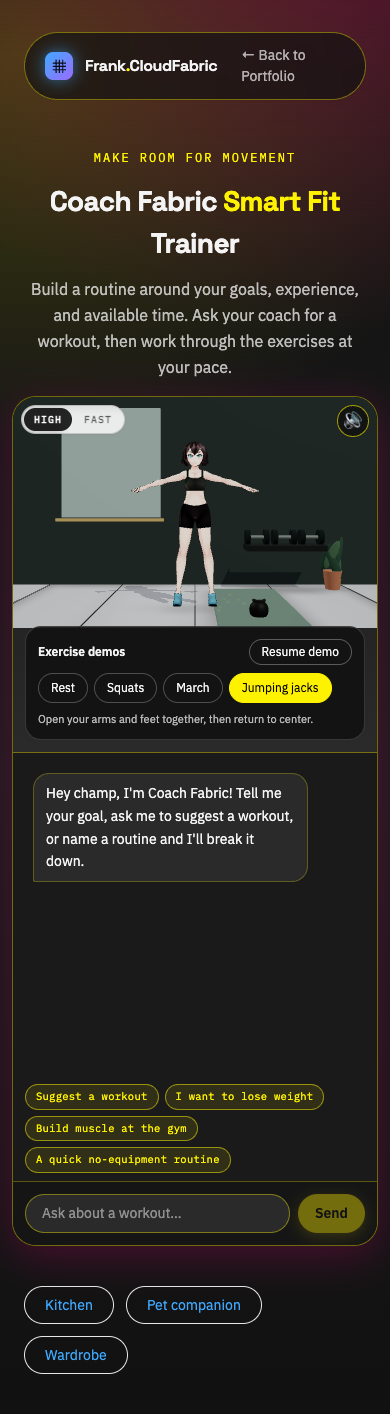
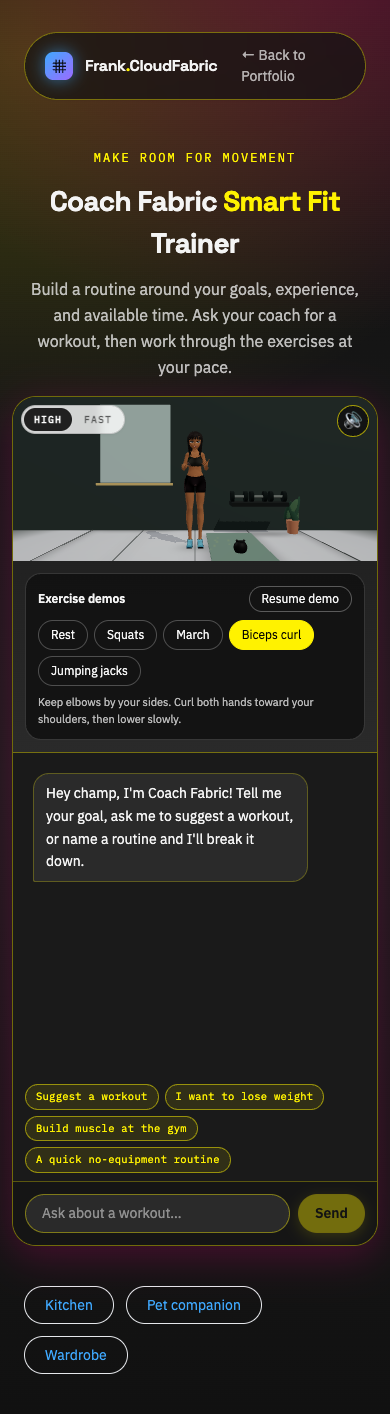
Add new animations coach trainer

Changed region(s): [[0.0308, 0.2801, 0.9846, 0.529]]

diff --git a/components/three/SpeakingAvatar.tsx b/components/three/SpeakingAvatar.tsx
@@ -3,7 +3,7 @@
 import { useEffect, useRef, useState } from 'react';
 import { useFrame } from '@react-three/fiber';
 import { GLTFLoader } from 'three/examples/jsm/loaders/GLTFLoader.js';
-import { VRMLoaderPlugin, VRMUtils, type VRM } from '@pixiv/three-vrm';
+import { VRMLoaderPlugin, VRMUtils, type VRM, type VRMHumanBoneName } from '@pixiv/three-vrm';
 import * as THREE from 'three';
 import { asset } from '@/lib/asset';
 import { transplantGarment } from '@/lib/vrm/transplant';
@@ -117,6 +117,22 @@ export default function SpeakingAvatar({ exercise = 'rest', paused = false, spea
       pose.getNormalizedBoneNode('rightLowerArm')?.rotation.set(-0.25, 0, 0);
       pose.getNormalizedBoneNode('chest')?.rotation.set(motion.lean, 0, 0);
       pose.getNormalizedBoneNode('head')?.rotation.set(-motion.lean * 0.5, 0, 0);
+    }
+    // Bend around the normalized arms' local Y axes, mirrored left/right.
+    // Local X runs along the arm, so rotating X alone only twists the forearm.
+    if (exercise === 'curl' || motion.elbowCurl > 0.01) {
+      pose.getNormalizedBoneNode('leftLowerArm')?.rotation.set(0, -motion.elbowCurl, 0);
+      pose.getNormalizedBoneNode('rightLowerArm')?.rotation.set(0, motion.elbowCurl, 0);
+    }
+    for (const side of ['left', 'right'] as const) {
+      const sign = side === 'left' ? -1 : 1;
+      pose.getNormalizedBoneNode(`${side}Hand`)?.rotation.set(sign * motion.grip * 1.15, 0, 0);
+      for (const finger of ['Index', 'Middle', 'Ring', 'Little'] as const) {
+        for (const segment of ['Proximal', 'Intermediate', 'Distal'] as const) {
+          pose.getNormalizedBoneNode(`${side}${finger}${segment}` as VRMHumanBoneName)?.rotation.set(0, 0, sign * motion.grip * (segment === 'Proximal' ? 0.85 : 1.1));
+        }
+      }
+      pose.getNormalizedBoneNode(`${side}ThumbProximal`)?.rotation.set(0, sign * motion.grip * 0.55, sign * motion.grip * 0.25);
     }
     vrm.scene.position.y = originY.current - motion.hipDrop * w + motion.hop * w;
     vrm.update(Math.min(delta, 0.05));

diff --git a/lib/coach/exercises.ts b/lib/coach/exercises.ts
@@ -1,14 +1,15 @@
-export type Exercise = 'rest' | 'squat' | 'march' | 'jacks';
+export type Exercise = 'rest' | 'squat' | 'march' | 'jacks' | 'curl';
 export const EXERCISES: { id: Exercise; label: string; cue: string }[] = [
   { id: 'rest', label: 'Rest', cue: 'Choose an exercise to see a full-body demonstration.' },
   { id: 'squat', label: 'Squats', cue: 'Sit back, bend your knees, then return to standing.' },
   { id: 'march', label: 'March', cue: 'Lift one knee at a time and swing the opposite arm.' },
+  { id: 'curl', label: 'Biceps curl', cue: 'Keep elbows by your sides. Curl both hands toward your shoulders, then lower slowly.' },
   { id: 'jacks', label: 'Jumping jacks', cue: 'Open your arms and feet together, then return to center.' },
 ];
 /** Smooth repeating demonstration poses. Angles are normalized VRM local rotations. */
 export function exercisePose(exercise: Exercise, seconds: number) {
   // Full repetitions: controlled squats at 2.4s, brisk jumping jacks at 1.2s.
-  const period = exercise === 'jacks' ? 1.2 : 2.4;
+  const period = exercise === 'jacks' ? 1.2 : exercise === 'curl' ? 2.8 : 2.4;
   const cycle = (1 - Math.cos(seconds * Math.PI * 2 / period)) / 2;
   const march = Math.sin(seconds * Math.PI * 2 / 2.4);
   const squat = exercise === 'squat' ? cycle * 0.85 : 0;
@@ -25,5 +26,7 @@ export function exercisePose(exercise: Exercise, seconds: number) {
     leftSwing: exercise === 'march' ? march * 0.45 : -squat * 0.7,
     rightSwing: exercise === 'march' ? -march * 0.45 : -squat * 0.7,
     lean: squat * 0.28,
+    elbowCurl: exercise === 'curl' ? 0.18 + cycle * 2.0 : 0,
+    grip: exercise === 'curl' ? 1 : 0,
   };
 }

diff --git a/components/coach/CoachChatbot.tsx b/components/coach/CoachChatbot.tsx
@@ -169,8 +169,8 @@ function CoachChatbotInner() {
   return (
     <div className="absolute inset-0 z-[5] flex flex-col md:flex-row bg-sf-black/90 backdrop-blur-[1px]">
       {/* 3D coach stage */}
-      <div className="relative md:w-[54%] w-full h-[42%] md:h-full min-h-[120px] bg-gradient-to-b from-sf-ink to-sf-gray border-b md:border-b-0 md:border-r border-sf-yellow/40">
-        <div className="absolute inset-0 bottom-[124px]">
+      <div className="relative flex flex-col md:w-[54%] w-full h-[42%] md:h-full min-h-[120px] bg-gradient-to-b from-sf-ink to-sf-gray border-b md:border-b-0 md:border-r border-sf-yellow/40">
+        <div className="relative flex-1 min-h-0">
         <CoachScene
           exercise={exercise}
           paused={paused}
@@ -200,7 +200,7 @@ function CoachChatbotInner() {
             {muted ? "🔇" : "🔊"}
           </span>
         </button>
-        <div className="absolute bottom-3 left-3 right-3 rounded-2xl border border-white/15 bg-sf-black/90 p-3 text-sf-mist">
+        <div className="relative shrink-0 m-3 rounded-2xl border border-white/15 bg-sf-black/90 p-3 text-sf-mist">
           <div className="flex items-center justify-between gap-2 mb-2">
             <span className="text-xs font-semibold">Exercise demos</span>
             {exercise !== 'rest' && <button onClick={() => setPaused(value => !value)} className="text-xs rounded-full border border-white/30 px-3 py-1">{paused ? 'Resume' : 'Pause'} demo</button>}
